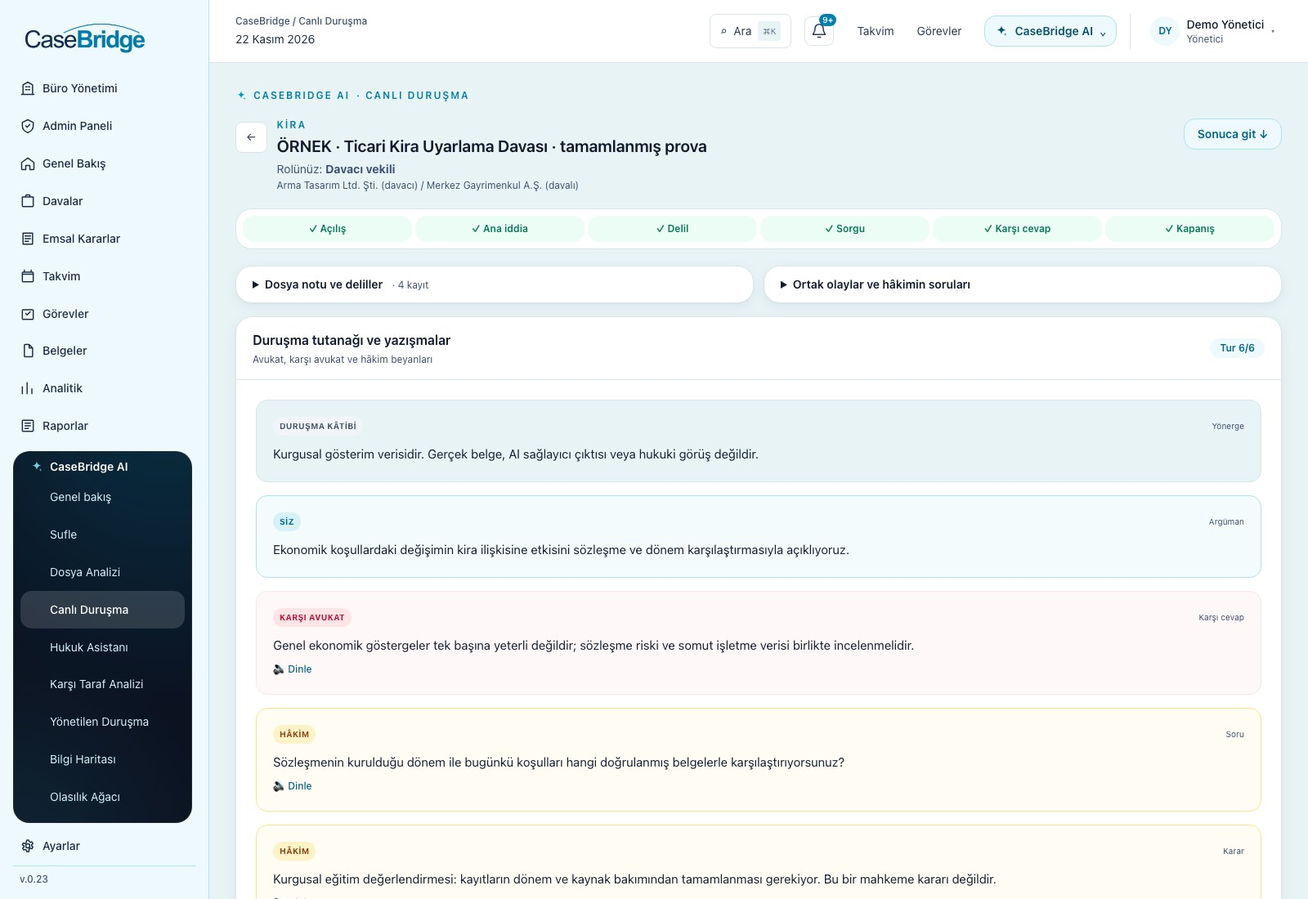
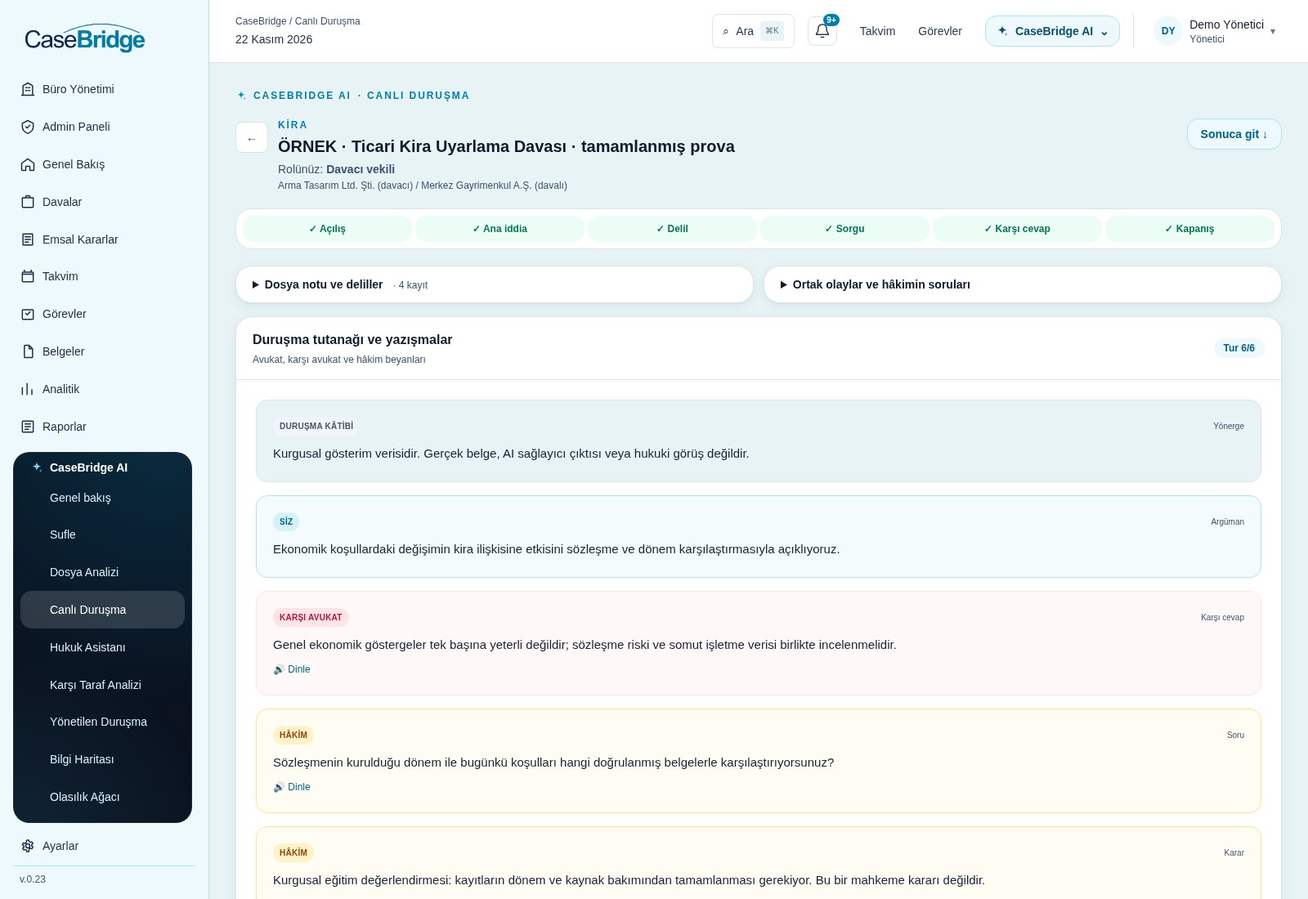
Refresh complete public product gallery v.0.48

diff --git a/web-page/index.html b/web-page/index.html
@@ -17,7 +17,7 @@
   <link rel="stylesheet" href="i18n.css?v=1">
   <link rel="stylesheet" href="pilot-results.css?v=1">
   <link rel="stylesheet" href="brand-refresh.css?v=0.11">
-  <meta name="casebridge-website-version" content="v.0.47">
+  <meta name="casebridge-website-version" content="v.0.48">
   <link rel="stylesheet" href="interactive-story.css?v=0.5">
   <script src="script.js?v=0.41" defer=""></script>
 
@@ -88,7 +88,7 @@
       <div class="business-heading"><div><p class="section-label">CaseBridge’in içinden</p><h2 id="product-title">Davanızı hazırlayın<br>Argümanınızı prova edin</h2></div><p>Bir davayı dört hukuki bakış açısından analiz edin, argümanlarınızı yapay zekâ karşı vekille çalışın ve hukuk asistanına soru sorun</p></div>
       <div class="capability-explorer" data-capability-explorer="">
         <div class="capability-tabs" role="tablist" aria-label="CaseBridge ürün özellikleri" aria-orientation="vertical"><button type="button" role="tab" id="capability-tab-12" aria-controls="capability-panel-12" aria-selected="true" tabindex="0" data-capability-tab=""><strong>Olasılık Ağacı</strong></button><button type="button" role="tab" id="capability-tab-1" aria-controls="capability-panel-1" aria-selected="false" tabindex="-1" data-capability-tab=""><strong>Yapay zekâ ile dava analizi</strong></button><button type="button" role="tab" id="capability-tab-2" aria-controls="capability-panel-2" aria-selected="false" tabindex="-1" data-capability-tab=""><strong>Konuşmayı prova edin</strong></button><button type="button" role="tab" id="capability-tab-3" aria-controls="capability-panel-3" aria-selected="false" tabindex="-1" data-capability-tab=""><strong>Delile itiraz edin</strong></button><button type="button" role="tab" id="capability-tab-4" aria-controls="capability-panel-4" aria-selected="false" tabindex="-1" data-capability-tab=""><strong>Provadan öğrenin</strong></button><button type="button" role="tab" id="capability-tab-5" aria-controls="capability-panel-5" aria-selected="false" tabindex="-1" data-capability-tab=""><strong>Hukuk asistanı</strong></button><button type="button" role="tab" id="capability-tab-6" aria-controls="capability-panel-6" aria-selected="false" tabindex="-1" data-capability-tab=""><strong>Dava ve belge yönetimi</strong></button><button type="button" role="tab" id="capability-tab-7" aria-controls="capability-panel-7" aria-selected="false" tabindex="-1" data-capability-tab=""><strong>Görevler ve duruşma takvimi</strong></button><button type="button" role="tab" id="capability-tab-8" aria-controls="capability-panel-8" aria-selected="false" tabindex="-1" data-capability-tab=""><strong>Raporlar ve devir</strong></button><button type="button" role="tab" id="capability-tab-9" aria-controls="capability-panel-9" aria-selected="false" tabindex="-1" data-capability-tab=""><strong>Hukuki zihin haritası</strong></button><button type="button" role="tab" id="capability-tab-10" aria-controls="capability-panel-10" aria-selected="false" tabindex="-1" data-capability-tab=""><strong>Karşı taraf analizi</strong></button><button type="button" role="tab" id="capability-tab-11" aria-controls="capability-panel-11" aria-selected="false" tabindex="-1" data-capability-tab=""><strong>Yönetilen duruşma</strong></button></div>
-        <div class="capability-screens"><div role="tabpanel" id="capability-panel-12" aria-labelledby="capability-tab-12" tabindex="0"><p class="capability-description">Dosya kayıtlarını ve son tamamlanmış analizdeki alternatif senaryoları dayanakları, koşullu gelişmeleri ve belirsizlikleriyle inceleyin. Kullanılabilir analiz yoksa genel hazırlık yolları açıkça belirtilir. Varsayıma bağlı Demo tahmini destek ağırlıklarını ve hesaplama yöntemini görün. Büro dosyalarındaki bağımsız 0–100 puanlar toplamlanmaz; sentetik örnekte yalnız aynı sorunun alternatifleri %100’e tamamlanır. Hukuki sonuç veya başarı garantisi değildir. <a href="https://app.casebridge.com.tr/ai/olasilik">Uygulamada Olasılık Ağacı’nı aç ↗</a></p><a class="feature-screen-link" data-feature-screen="" data-feature-title="Olasılık Ağacı" href="assets/feature-screens/tr-current/scenario-tree.jpg?v=0.47" target="_blank" rel="noopener" aria-label="Olasılık Ağacı ekran görüntüsünü tam boyutta aç"><img src="assets/feature-screens/tr-current/scenario-tree.jpg?v=0.47" loading="lazy" alt="Gerçek CaseBridge Olasılık Ağacı: kurgusal örnekte Demo tahmini yüzdeleri, varsayımlar ve dayanaklar"><span class="feature-screen-expand">Tam ekran görün ↗</span></a></div><div role="tabpanel" id="capability-panel-1" aria-labelledby="capability-tab-1" tabindex="0" hidden=""><p class="capability-description">Dosyayı araştırmacı, davacı vekili, davalı vekili ve hâkim bakış açılarından inceleyin. Destekleyici argümanları, zayıf yönleri, eksik bilgileri ve önerilen sonraki adımları görün.</p><a class="feature-screen-link" data-feature-screen="" data-feature-title="Yapay zekâ ile dava analizi" href="assets/feature-screens/tr-current/analysis.jpg?v=0.47" target="_blank" rel="noopener" aria-label="Yapay zekâ ile dava analizi ekran görüntüsünü tam boyutta aç"><img src="assets/feature-screens/tr-current/analysis.jpg?v=0.47" loading="lazy" alt="Gerçek CaseBridge uygulaması: Yapay zekâ ile dava analizi — kurgusal örnek veriler"><span class="feature-screen-expand">Tam ekran görün ↗</span></a></div><div role="tabpanel" id="capability-panel-2" aria-labelledby="capability-tab-2" tabindex="0" hidden=""><p class="capability-description">Sizin argümanınız, yapay zekâ karşı tarafın yanıtı ve hâkimin soruları</p><a class="feature-screen-link" data-feature-screen="" data-feature-title="Konuşmayı prova edin" href="assets/feature-screens/tr-current/conversation.jpg?v=0.47" target="_blank" rel="noopener" aria-label="Konuşmayı prova edin ekran görüntüsünü tam boyutta aç"><img src="assets/feature-screens/tr-current/conversation.jpg?v=0.47" loading="lazy" alt="Gerçek CaseBridge uygulaması: Konuşmayı prova edin — kurgusal örnek veriler"><span class="feature-screen-expand">Tam ekran görün ↗</span></a></div><div role="tabpanel" id="capability-panel-3" aria-labelledby="capability-tab-3" tabindex="0" hidden=""><p class="capability-description">İddiayı, itirazı ve yanıtı tek bir tutanakta takip edin.</p><a class="feature-screen-link" data-feature-screen="" data-feature-title="Delile itiraz edin" href="assets/feature-screens/tr-current/evidence.jpg?v=0.47" target="_blank" rel="noopener" aria-label="Delile itiraz edin ekran görüntüsünü tam boyutta aç"><img src="assets/feature-screens/tr-current/evidence.jpg?v=0.47" loading="lazy" alt="Gerçek CaseBridge uygulaması: Delile itiraz edin — kurgusal örnek veriler"><span class="feature-screen-expand">Tam ekran görün ↗</span></a></div><div role="tabpanel" id="capability-panel-4" aria-labelledby="capability-tab-4" tabindex="0" hidden=""><p class="capability-description">Delil kullanımını, itirazları ve sonraki hazırlık adımlarını inceleyin.</p><a class="feature-screen-link" data-feature-screen="" data-feature-title="Provadan öğrenin" href="assets/feature-screens/tr-current/evaluation.jpg?v=0.47" target="_blank" rel="noopener" aria-label="Provadan öğrenin ekran görüntüsünü tam boyutta aç"><img src="assets/feature-screens/tr-current/evaluation.jpg?v=0.47" loading="lazy" alt="Gerçek CaseBridge uygulaması: Provadan öğrenin — kurgusal örnek veriler"><span class="feature-screen-expand">Tam ekran görün ↗</span></a></div><div role="tabpanel" id="capability-panel-5" aria-labelledby="capability-tab-5" tabindex="0" hidden=""><p class="capability-description">Hukuki sorularınızı ayrı bir sohbette sorun; hazırlığınız ilerledikçe önceki konuşmalara geri dönün</p><a class="feature-screen-link" data-feature-screen="" data-feature-title="Hukuk asistanı" href="assets/feature-screens/tr-current/assistant.jpg?v=0.47" target="_blank" rel="noopener" aria-label="Hukuk asistanı ekran görüntüsünü tam boyutta aç"><img src="assets/feature-screens/tr-current/assistant.jpg?v=0.47" loading="lazy" alt="Gerçek CaseBridge uygulaması: Hukuk asistanı — kurgusal örnek veriler"><span class="feature-screen-expand">Tam ekran görün ↗</span></a></div><div role="tabpanel" id="capability-panel-6" aria-labelledby="capability-tab-6" tabindex="0" hidden=""><p class="capability-description">Tarafları, dava ayrıntılarını, yüklenen belgeleri ve tarihli gelişmeleri tek bir dava çalışma alanında tutun</p><a class="feature-screen-link" data-feature-screen="" data-feature-title="Dava ve belge yönetimi" href="assets/feature-screens/tr-current/case-documents.jpg?v=0.47" target="_blank" rel="noopener" aria-label="Dava ve belge yönetimi ekran görüntüsünü tam boyutta aç"><img src="assets/feature-screens/tr-current/case-documents.jpg?v=0.47" loading="lazy" alt="Gerçek CaseBridge uygulaması: Dava ve belge yönetimi — kurgusal örnek veriler"><span class="feature-screen-expand">Tam ekran görün ↗</span></a></div><div role="tabpanel" id="capability-panel-7" aria-labelledby="capability-tab-7" tabindex="0" hidden=""><p class="capability-description">Davaya bağlı görevler oluşturun, son tarih belirleyin ve tamamlanmasını takip edin. Duruşmaları ve görev tarihlerini takvimde görün.</p><a class="feature-screen-link" data-feature-screen="" data-feature-title="Görevler ve duruşma takvimi" href="assets/feature-screens/tr-current/calendar.jpg?v=0.47" target="_blank" rel="noopener" aria-label="Görevler ve duruşma takvimi ekran görüntüsünü tam boyutta aç"><img src="assets/feature-screens/tr-current/calendar.jpg?v=0.47" loading="lazy" alt="Gerçek CaseBridge uygulaması: Görevler ve duruşma takvimi — kurgusal örnek veriler"><span class="feature-screen-expand">Tam ekran görün ↗</span></a></div><div role="tabpanel" id="capability-panel-8" aria-labelledby="capability-tab-8" tabindex="0" hidden=""><p class="capability-description">Kaydedilen sonuçları ve büro analitiğini inceleyin. Başka bir avukatın dosyayı anlamasına yardımcı olacak bir dava devir özeti oluşturun.</p><a class="feature-screen-link" data-feature-screen="" data-feature-title="Raporlar ve devir" href="assets/feature-screens/tr-current/reports.jpg?v=0.47" target="_blank" rel="noopener" aria-label="Raporlar ve devir ekran görüntüsünü tam boyutta aç"><img src="assets/feature-screens/tr-current/reports.jpg?v=0.47" loading="lazy" alt="Gerçek CaseBridge uygulaması: Raporlar ve devir — kurgusal örnek veriler"><span class="feature-screen-expand">Tam ekran görün ↗</span></a></div><div role="tabpanel" id="capability-panel-9" aria-labelledby="capability-tab-9" tabindex="0" hidden=""><p class="capability-description">Yargıtay kararlarında birlikte anılan kanun maddelerini bilgi haritasında inceleyin. Bir maddeyi seçerek bağlantılı maddeleri ve karar bağlamını görün.</p><a class="feature-screen-link" data-feature-screen="" data-feature-title="Hukuki zihin haritası" href="assets/feature-screens/tr-current/knowledge-map.jpg?v=0.47" target="_blank" rel="noopener" aria-label="Hukuki zihin haritası ekran görüntüsünü tam boyutta aç"><img src="assets/feature-screens/tr-current/knowledge-map.jpg?v=0.47" alt="Gerçek CaseBridge uygulaması: Hukuki zihin haritası — yalıtılmış örnek kurulum" loading="lazy"><span class="feature-screen-expand">Tam ekran görün ↗</span></a></div><div role="tabpanel" id="capability-panel-10" aria-labelledby="capability-tab-10" tabindex="0" hidden=""><p class="capability-description">Davacı veya davalı açısından dosyadaki olası açıkları, karşı argümanları ve hukuki hamleleri kanun dayanaklarıyla birlikte inceleyin.</p><a class="feature-screen-link" data-feature-screen="" data-feature-title="Karşı taraf analizi" href="assets/feature-screens/tr-current/counter-analysis.jpg?v=0.47" target="_blank" rel="noopener" aria-label="Karşı taraf analizi ekran görüntüsünü tam boyutta aç"><img src="assets/feature-screens/tr-current/counter-analysis.jpg?v=0.47" alt="Gerçek CaseBridge uygulaması: Karşı taraf analizi — yalıtılmış örnek kurulum" loading="lazy"><span class="feature-screen-expand">Tam ekran görün ↗</span></a></div><div role="tabpanel" id="capability-panel-11" aria-labelledby="capability-tab-11" tabindex="0" hidden=""><p class="capability-description">Hâkim, iki vekil ve bilirkişinin yer aldığı duruşmada rol seçin. Sahneyi ilerletin, müdahaleleri deneyin ve rehberin sonraki hamle önerilerini inceleyin.</p><a class="feature-screen-link" data-feature-screen="" data-feature-title="Yönetilen duruşma" href="assets/feature-screens/tr-current/directed-trial.jpg?v=0.47" target="_blank" rel="noopener" aria-label="Yönetilen duruşma ekran görüntüsünü tam boyutta aç"><img src="assets/feature-screens/tr-current/directed-trial.jpg?v=0.47" alt="Gerçek CaseBridge uygulaması: Yönetilen duruşma — yalıtılmış örnek kurulum" loading="lazy"><span class="feature-screen-expand">Tam ekran görün ↗</span></a></div></div>
+        <div class="capability-screens"><div role="tabpanel" id="capability-panel-12" aria-labelledby="capability-tab-12" tabindex="0"><p class="capability-description">Dosya kayıtlarını ve son tamamlanmış analizdeki alternatif senaryoları dayanakları, koşullu gelişmeleri ve belirsizlikleriyle inceleyin. Kullanılabilir analiz yoksa genel hazırlık yolları açıkça belirtilir. Varsayıma bağlı Demo tahmini destek ağırlıklarını ve hesaplama yöntemini görün. Büro dosyalarındaki bağımsız 0–100 puanlar toplamlanmaz; sentetik örnekte yalnız aynı sorunun alternatifleri %100’e tamamlanır. Hukuki sonuç veya başarı garantisi değildir. <a href="https://app.casebridge.com.tr/ai/olasilik">Uygulamada Olasılık Ağacı’nı aç ↗</a></p><a class="feature-screen-link" data-feature-screen="" data-feature-title="Olasılık Ağacı" href="assets/feature-screens/tr-current/scenario-tree.jpg?v=0.48" target="_blank" rel="noopener" aria-label="Olasılık Ağacı ekran görüntüsünü tam boyutta aç"><img src="assets/feature-screens/tr-current/scenario-tree.jpg?v=0.48" loading="lazy" alt="Gerçek CaseBridge Olasılık Ağacı: kurgusal örnekte Demo tahmini yüzdeleri, varsayımlar ve dayanaklar"><span class="feature-screen-expand">Tam ekran görün ↗</span></a></div><div role="tabpanel" id="capability-panel-1" aria-labelledby="capability-tab-1" tabindex="0" hidden=""><p class="capability-description">Dosyayı araştırmacı, davacı vekili, davalı vekili ve hâkim bakış açılarından inceleyin. Destekleyici argümanları, zayıf yönleri, eksik bilgileri ve önerilen sonraki adımları görün.</p><a class="feature-screen-link" data-feature-screen="" data-feature-title="Yapay zekâ ile dava analizi" href="assets/feature-screens/tr-current/analysis.jpg?v=0.48" target="_blank" rel="noopener" aria-label="Yapay zekâ ile dava analizi ekran görüntüsünü tam boyutta aç"><img src="assets/feature-screens/tr-current/analysis.jpg?v=0.48" loading="lazy" alt="Gerçek CaseBridge uygulaması: Yapay zekâ ile dava analizi — kurgusal örnek veriler"><span class="feature-screen-expand">Tam ekran görün ↗</span></a></div><div role="tabpanel" id="capability-panel-2" aria-labelledby="capability-tab-2" tabindex="0" hidden=""><p class="capability-description">Sizin argümanınız, yapay zekâ karşı tarafın yanıtı ve hâkimin soruları</p><a class="feature-screen-link" data-feature-screen="" data-feature-title="Konuşmayı prova edin" href="assets/feature-screens/tr-current/conversation.jpg?v=0.48" target="_blank" rel="noopener" aria-label="Konuşmayı prova edin ekran görüntüsünü tam boyutta aç"><img src="assets/feature-screens/tr-current/conversation.jpg?v=0.48" loading="lazy" alt="Gerçek CaseBridge uygulaması: Konuşmayı prova edin — kurgusal örnek veriler"><span class="feature-screen-expand">Tam ekran görün ↗</span></a></div><div role="tabpanel" id="capability-panel-3" aria-labelledby="capability-tab-3" tabindex="0" hidden=""><p class="capability-description">İddiayı, itirazı ve yanıtı tek bir tutanakta takip edin.</p><a class="feature-screen-link" data-feature-screen="" data-feature-title="Delile itiraz edin" href="assets/feature-screens/tr-current/evidence.jpg?v=0.48" target="_blank" rel="noopener" aria-label="Delile itiraz edin ekran görüntüsünü tam boyutta aç"><img src="assets/feature-screens/tr-current/evidence.jpg?v=0.48" loading="lazy" alt="Gerçek CaseBridge uygulaması: Delile itiraz edin — kurgusal örnek veriler"><span class="feature-screen-expand">Tam ekran görün ↗</span></a></div><div role="tabpanel" id="capability-panel-4" aria-labelledby="capability-tab-4" tabindex="0" hidden=""><p class="capability-description">Delil kullanımını, itirazları ve sonraki hazırlık adımlarını inceleyin.</p><a class="feature-screen-link" data-feature-screen="" data-feature-title="Provadan öğrenin" href="assets/feature-screens/tr-current/evaluation.jpg?v=0.48" target="_blank" rel="noopener" aria-label="Provadan öğrenin ekran görüntüsünü tam boyutta aç"><img src="assets/feature-screens/tr-current/evaluation.jpg?v=0.48" loading="lazy" alt="Gerçek CaseBridge uygulaması: Provadan öğrenin — kurgusal örnek veriler"><span class="feature-screen-expand">Tam ekran görün ↗</span></a></div><div role="tabpanel" id="capability-panel-5" aria-labelledby="capability-tab-5" tabindex="0" hidden=""><p class="capability-description">Hukuki sorularınızı ayrı bir sohbette sorun; hazırlığınız ilerledikçe önceki konuşmalara geri dönün</p><a class="feature-screen-link" data-feature-screen="" data-feature-title="Hukuk asistanı" href="assets/feature-screens/tr-current/assistant.jpg?v=0.48" target="_blank" rel="noopener" aria-label="Hukuk asistanı ekran görüntüsünü tam boyutta aç"><img src="assets/feature-screens/tr-current/assistant.jpg?v=0.48" loading="lazy" alt="Gerçek CaseBridge uygulaması: Hukuk asistanı — kurgusal örnek veriler"><span class="feature-screen-expand">Tam ekran görün ↗</span></a></div><div role="tabpanel" id="capability-panel-6" aria-labelledby="capability-tab-6" tabindex="0" hidden=""><p class="capability-description">Tarafları, dava ayrıntılarını, yüklenen belgeleri ve tarihli gelişmeleri tek bir dava çalışma alanında tutun</p><a class="feature-screen-link" data-feature-screen="" data-feature-title="Dava ve belge yönetimi" href="assets/feature-screens/tr-current/case-documents.jpg?v=0.48" target="_blank" rel="noopener" aria-label="Dava ve belge yönetimi ekran görüntüsünü tam boyutta aç"><img src="assets/feature-screens/tr-current/case-documents.jpg?v=0.48" loading="lazy" alt="Gerçek CaseBridge uygulaması: Dava ve belge yönetimi — kurgusal örnek veriler"><span class="feature-screen-expand">Tam ekran görün ↗</span></a></div><div role="tabpanel" id="capability-panel-7" aria-labelledby="capability-tab-7" tabindex="0" hidden=""><p class="capability-description">Davaya bağlı görevler oluşturun, son tarih belirleyin ve tamamlanmasını takip edin. Duruşmaları ve görev tarihlerini takvimde görün.</p><a class="feature-screen-link" data-feature-screen="" data-feature-title="Görevler ve duruşma takvimi" href="assets/feature-screens/tr-current/calendar.jpg?v=0.48" target="_blank" rel="noopener" aria-label="Görevler ve duruşma takvimi ekran görüntüsünü tam boyutta aç"><img src="assets/feature-screens/tr-current/calendar.jpg?v=0.48" loading="lazy" alt="Gerçek CaseBridge uygulaması: Görevler ve duruşma takvimi — kurgusal örnek veriler"><span class="feature-screen-expand">Tam ekran görün ↗</span></a></div><div role="tabpanel" id="capability-panel-8" aria-labelledby="capability-tab-8" tabindex="0" hidden=""><p class="capability-description">Kaydedilen sonuçları ve büro analitiğini inceleyin. Başka bir avukatın dosyayı anlamasına yardımcı olacak bir dava devir özeti oluşturun.</p><a class="feature-screen-link" data-feature-screen="" data-feature-title="Raporlar ve devir" href="assets/feature-screens/tr-current/reports.jpg?v=0.48" target="_blank" rel="noopener" aria-label="Raporlar ve devir ekran görüntüsünü tam boyutta aç"><img src="assets/feature-screens/tr-current/reports.jpg?v=0.48" loading="lazy" alt="Gerçek CaseBridge uygulaması: Raporlar ve devir — kurgusal örnek veriler"><span class="feature-screen-expand">Tam ekran görün ↗</span></a></div><div role="tabpanel" id="capability-panel-9" aria-labelledby="capability-tab-9" tabindex="0" hidden=""><p class="capability-description">Yargıtay kararlarında birlikte anılan kanun maddelerini bilgi haritasında inceleyin. Bir maddeyi seçerek bağlantılı maddeleri ve karar bağlamını görün.</p><a class="feature-screen-link" data-feature-screen="" data-feature-title="Hukuki zihin haritası" href="assets/feature-screens/tr-current/knowledge-map.jpg?v=0.48" target="_blank" rel="noopener" aria-label="Hukuki zihin haritası ekran görüntüsünü tam boyutta aç"><img src="assets/feature-screens/tr-current/knowledge-map.jpg?v=0.48" alt="Gerçek CaseBridge uygulaması: Hukuki zihin haritası — yalıtılmış örnek kurulum" loading="lazy"><span class="feature-screen-expand">Tam ekran görün ↗</span></a></div><div role="tabpanel" id="capability-panel-10" aria-labelledby="capability-tab-10" tabindex="0" hidden=""><p class="capability-description">Davacı veya davalı açısından dosyadaki olası açıkları, karşı argümanları ve hukuki hamleleri kanun dayanaklarıyla birlikte inceleyin.</p><a class="feature-screen-link" data-feature-screen="" data-feature-title="Karşı taraf analizi" href="assets/feature-screens/tr-current/counter-analysis.jpg?v=0.48" target="_blank" rel="noopener" aria-label="Karşı taraf analizi ekran görüntüsünü tam boyutta aç"><img src="assets/feature-screens/tr-current/counter-analysis.jpg?v=0.48" alt="Gerçek CaseBridge uygulaması: Karşı taraf analizi — yalıtılmış örnek kurulum" loading="lazy"><span class="feature-screen-expand">Tam ekran görün ↗</span></a></div><div role="tabpanel" id="capability-panel-11" aria-labelledby="capability-tab-11" tabindex="0" hidden=""><p class="capability-description">Hâkim, iki vekil ve bilirkişinin yer aldığı duruşmada rol seçin. Sahneyi ilerletin, müdahaleleri deneyin ve rehberin sonraki hamle önerilerini inceleyin.</p><a class="feature-screen-link" data-feature-screen="" data-feature-title="Yönetilen duruşma" href="assets/feature-screens/tr-current/directed-trial.jpg?v=0.48" target="_blank" rel="noopener" aria-label="Yönetilen duruşma ekran görüntüsünü tam boyutta aç"><img src="assets/feature-screens/tr-current/directed-trial.jpg?v=0.48" alt="Gerçek CaseBridge uygulaması: Yönetilen duruşma — yalıtılmış örnek kurulum" loading="lazy"><span class="feature-screen-expand">Tam ekran görün ↗</span></a></div></div>
       </div>
       <dialog id="feature-screen-dialog" class="actual-ai-dialog feature-screen-dialog" aria-labelledby="feature-screen-title"><div class="actual-ai-dialog-header"><span id="feature-screen-title" data-feature-title="">CaseBridge.</span><button type="button" data-feature-close="" aria-label="Ekran görüntüsünü kapat">×</button></div><img alt=""></dialog>
       <p class="image-note">Gerçek CaseBridge uygulamasından, yalnızca kurgusal örnek verilerle alınmış Türkçe ekran görüntüleri. Eğitim puanları gerçek dava sonuçlarını öngörmez.</p><details class="story-detail"><summary>Ürünü keşfedin: analiz, prova ve dava yönetimi<span aria-hidden="true">+</span></summary><div class="story-detail-body"><section class="intro section wrap" id="approach">
@@ -109,8 +109,8 @@
       <div class="section-label"><span class="tiny-square"></span> Platform</div>
       <div class="platform-heading"><h2>Duruşmadan önce<br><span>prova yapmaya zaman ayırın</span></h2><p>Örnek bir davada taraf seçin, delil sunun ve karşı argümanlara yanıt verin. Oturumun sonunda güçlü yönlerinizi ve gelişmeye açık alanlarınızı inceleyin.</p></div>
       <div class="screen-tabs" role="tablist" aria-label="Uygulama ekran görüntüleri"><button id="tab-courtroom" role="tab" aria-selected="true" aria-controls="screen-courtroom" tabindex="0">Duruşma simülasyonu <span>↗</span></button><button id="tab-evaluation" role="tab" aria-selected="false" aria-controls="screen-evaluation" tabindex="-1">Değerlendirme ve geri bildirim <span>↗</span></button></div>
-      <div class="screen-panel" id="screen-courtroom" role="tabpanel" aria-labelledby="tab-courtroom"><div class="screen-frame"><div class="window-bar"><span><i></i><i></i><i></i></span><span>CaseBridge / Duruşma simülasyonu</span><span>ÜRÜN EKRAN GÖRÜNTÜSÜ</span></div><img src="assets/feature-screens/tr-current/conversation.jpg?v=0.47" alt="Örnek bir CaseBridge duruşması: gizli dava notları, delil dosyası ve duruşma tutanağı" loading="lazy"></div><div class="screen-description"><h3>Duruşma salonuna girmeden önce prova yapın</h3><p>Davacı ya da davalı vekili rolünü üstlenin. Delil sunun, yapay zekâ karşı tarafa yanıt verin ve altı aşamalı kurgusal bir duruşmada stratejinizi çalışın.</p></div></div>
-      <div class="screen-panel" id="screen-evaluation" role="tabpanel" aria-labelledby="tab-evaluation" hidden=""><div class="screen-frame"><div class="window-bar"><span><i></i><i></i><i></i></span><span>CaseBridge / Eğitim değerlendirmesi</span><span>ÜRÜN EKRAN GÖRÜNTÜSÜ</span></div><img src="assets/feature-screens/tr-current/evaluation.jpg?v=0.47" alt="CaseBridge eğitim değerlendirmesi: delil kullanımı, itiraz ve strateji puanları, güçlü yönler ve geliştirme önerileri" loading="lazy"></div><div class="screen-description"><h3>Her provadan öğrenin</h3><p>Delil kullanımı, karşı argümanlar ve duruşma stratejisi üzerine geri bildirim alın. Ekrandaki puan bir eğitim değerlendirmesidir; gerçek bir davanın sonucunu öngörmez.</p></div></div>
+      <div class="screen-panel" id="screen-courtroom" role="tabpanel" aria-labelledby="tab-courtroom"><div class="screen-frame"><div class="window-bar"><span><i></i><i></i><i></i></span><span>CaseBridge / Duruşma simülasyonu</span><span>ÜRÜN EKRAN GÖRÜNTÜSÜ</span></div><img src="assets/feature-screens/tr-current/conversation.jpg?v=0.48" alt="Örnek bir CaseBridge duruşması: gizli dava notları, delil dosyası ve duruşma tutanağı" loading="lazy"></div><div class="screen-description"><h3>Duruşma salonuna girmeden önce prova yapın</h3><p>Davacı ya da davalı vekili rolünü üstlenin. Delil sunun, yapay zekâ karşı tarafa yanıt verin ve altı aşamalı kurgusal bir duruşmada stratejinizi çalışın.</p></div></div>
+      <div class="screen-panel" id="screen-evaluation" role="tabpanel" aria-labelledby="tab-evaluation" hidden=""><div class="screen-frame"><div class="window-bar"><span><i></i><i></i><i></i></span><span>CaseBridge / Eğitim değerlendirmesi</span><span>ÜRÜN EKRAN GÖRÜNTÜSÜ</span></div><img src="assets/feature-screens/tr-current/evaluation.jpg?v=0.48" alt="CaseBridge eğitim değerlendirmesi: delil kullanımı, itiraz ve strateji puanları, güçlü yönler ve geliştirme önerileri" loading="lazy"></div><div class="screen-description"><h3>Her provadan öğrenin</h3><p>Delil kullanımı, karşı argümanlar ve duruşma stratejisi üzerine geri bildirim alın. Ekrandaki puan bir eğitim değerlendirmesidir; gerçek bir davanın sonucunu öngörmez.</p></div></div>
       <p class="image-note">Ekran görüntüleri, CaseBridge uygulamasındaki kurgusal bir örnek duruşmadan alınmıştır</p>
     </section><section class="workspace-section section wrap"><div class="workspace-title"><div class="section-label"><span class="tiny-square"></span> Dava yönetimi</div><h2>Büronuzun<br><span>günlük çalışma alanı</span></h2></div><div class="workspace-features"><article><h3>Davalar ve belgeler</h3><p>Tarafları, belgeleri ve dava geçmişini tek yerde tutun</p></article><article><h3>Takvim ve görevler</h3><p>Duruşma tarihlerini ve görevleri birlikte takip edin</p></article><article><h3>Büro analitiği</h3><p>Dava dağılımlarını ve kaydedilen sonuçları incele</p></article><article><h3>Dava devri</h3><p>Dava geçmişini ve sonraki adımları bir araya getirin</p></article></div></section></div></details>
     </section>

diff --git a/scripts/tests/test_generated_gallery.py b/scripts/tests/test_generated_gallery.py
@@ -1,0 +1,18 @@
+import hashlib
+import json
+from pathlib import Path
+import unittest
+
+class GeneratedGalleryTests(unittest.TestCase):
+    def test_complete_versioned_gallery_bytes(self):
+        root = Path(__file__).resolve().parents[2]
[1 lines of base64/hex data omitted]
+        ledger = json.loads((root/'web-page/assets/feature-screens/tr-current/AUTO_CAPTURE.md').read_text())
+        self.assertEqual(ledger['hashes'], expected)
+        self.assertEqual(json.loads((root/'web-page/website-version.json').read_text())['version'], 'v.0.48')
+        for name, digest in expected.items():
+            self.assertEqual(hashlib.sha256((root/'web-page'/name).read_bytes()).hexdigest(), digest)
+        from scripts.tests.test_marketing_default import MarketingDefaultAcceptance
+        result = unittest.TestResult()
+        unittest.defaultTestLoader.loadTestsFromTestCase(MarketingDefaultAcceptance).run(result)
+        self.assertTrue(result.wasSuccessful(), str(result.errors + result.failures))

diff --git a/web-page/assets/feature-screens/tr-current/AUTO_CAPTURE.md b/web-page/assets/feature-screens/tr-current/AUTO_CAPTURE.md
@@ -1,0 +1,149 @@
+{
+  "app": {
+    "version": "0.23",
+    "commit": "f625960cadd4e4c29985fa26fcb4914d4ff326b3"
+  },
+  "marketingVersion": "v.0.48",
+  "sourceMarketingVersion": "v.0.47",
+  "hashes": {
[12 lines of base64/hex data omitted]
+  },
+  "mode": "public-served-frontend-with-isolated-synthetic-api",
+  "captures": [
+    {
+      "name": "analysis",
+      "route": "/davalar/beb64299-dfd7-4d0f-a0ba-2c76af3d9518?sekme=ai",
+      "viewport": {
+        "width": 1600,
+        "height": 1100
+      },
[1 lines of base64/hex data omitted]
+    },
+    {
+      "name": "evaluation",
+      "route": "/ai/durusma/oturum/6e3d570e-76b2-514d-8202-fb7c330f9dc2",
+      "viewport": {
+        "width": 1600,
+        "height": 1100
+      },
[1 lines of base64/hex data omitted]
+    },
+    {
+      "name": "conversation",
+      "route": "/ai/durusma/oturum/6e3d570e-76b2-514d-8202-fb7c330f9dc2",
+      "viewport": {
+        "width": 1600,
+        "height": 1100
+      },
[1 lines of base64/hex data omitted]
+    },
+    {
+      "name": "evidence",
+      "route": "/ai/durusma/oturum/6e3d570e-76b2-514d-8202-fb7c330f9dc2",
+      "viewport": {
+        "width": 1600,
+        "height": 1100
+      },
[1 lines of base64/hex data omitted]
+    },
+    {
+      "name": "assistant",
+      "route": "/ai/sohbet?sohbet=36f2ae10-7b68-5da2-8bab-72da799a5232",
+      "viewport": {
+        "width": 1600,
+        "height": 1100
+      },
[1 lines of base64/hex data omitted]
+    },
+    {
+      "name": "case-documents",
+      "route": "/davalar/beb64299-dfd7-4d0f-a0ba-2c76af3d9518",
+      "viewport": {
+        "width": 1600,
+        "height": 1100
+      },
[1 lines of base64/hex data omitted]
+    },
+    {
+      "name": "calendar",
+      "route": "/takvim",
+      "viewport": {
+        "width": 1600,
+        "height": 1100
+      },
[1 lines of base64/hex data omitted]
+    },
+    {
+      "name": "reports",
+      "route": "/raporlar",
+      "viewport": {
+        "width": 1600,
+        "height": 1100
+      },
[1 lines of base64/hex data omitted]
+    },
+    {
+      "name": "knowledge-map",
+      "route": "/ai/harita",
+      "viewport": {
+        "width": 1600,
+        "height": 1100
+      },
[1 lines of base64/hex data omitted]
+    },
+    {
+      "name": "counter-analysis",
+      "route": "/ai/karsi-taraf",
+      "viewport": {
+        "width": 1600,
+        "height": 1100
+      },
[1 lines of base64/hex data omitted]
+    },
+    {
+      "name": "directed-trial",
+      "route": "/ai/yonetmen",
+      "viewport": {
+        "width": 1600,
+        "height": 1100
+      },
[1 lines of base64/hex data omitted]
+    },
+    {
+      "name": "scenario-tree",
+      "route": "/ai/olasilik?ornek=belge-dogrulama",
+      "viewport": {
+        "width": 1600,
+        "height": 1400
+      },
[1 lines of base64/hex data omitted]
+    }
+  ],
+  "proxied_request_count": 73,
[1 lines of base64/hex data omitted]
+  "routes": {
+    "analysis": "/davalar/beb64299-dfd7-4d0f-a0ba-2c76af3d9518?sekme=ai",
+    "evaluation": "/ai/durusma/oturum/6e3d570e-76b2-514d-8202-fb7c330f9dc2",
+    "conversation": "/ai/durusma/oturum/6e3d570e-76b2-514d-8202-fb7c330f9dc2",
+    "evidence": "/ai/durusma/oturum/6e3d570e-76b2-514d-8202-fb7c330f9dc2",
+    "assistant": "/ai/sohbet?sohbet=36f2ae10-7b68-5da2-8bab-72da799a5232",
+    "case-documents": "/davalar/beb64299-dfd7-4d0f-a0ba-2c76af3d9518",
+    "calendar": "/takvim",
+    "reports": "/raporlar",
+    "knowledge-map": "/ai/harita",
+    "counter-analysis": "/ai/karsi-taraf",
+    "directed-trial": "/ai/yonetmen",
+    "scenario-tree": "/ai/olasilik?ornek=belge-dogrulama"
+  }
+}
